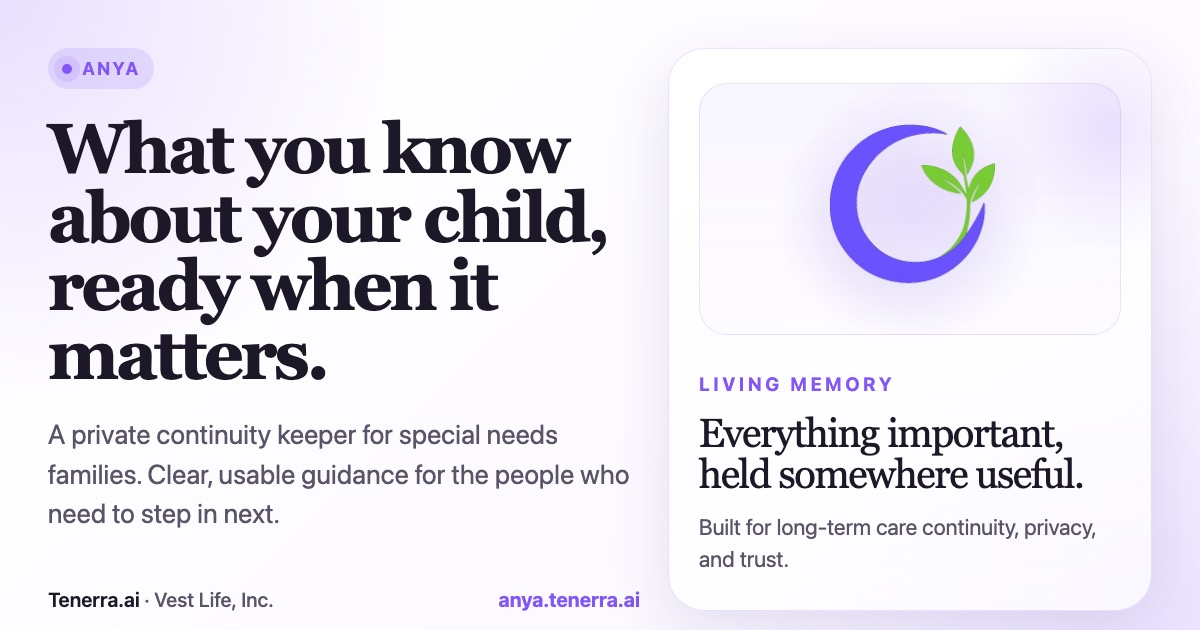
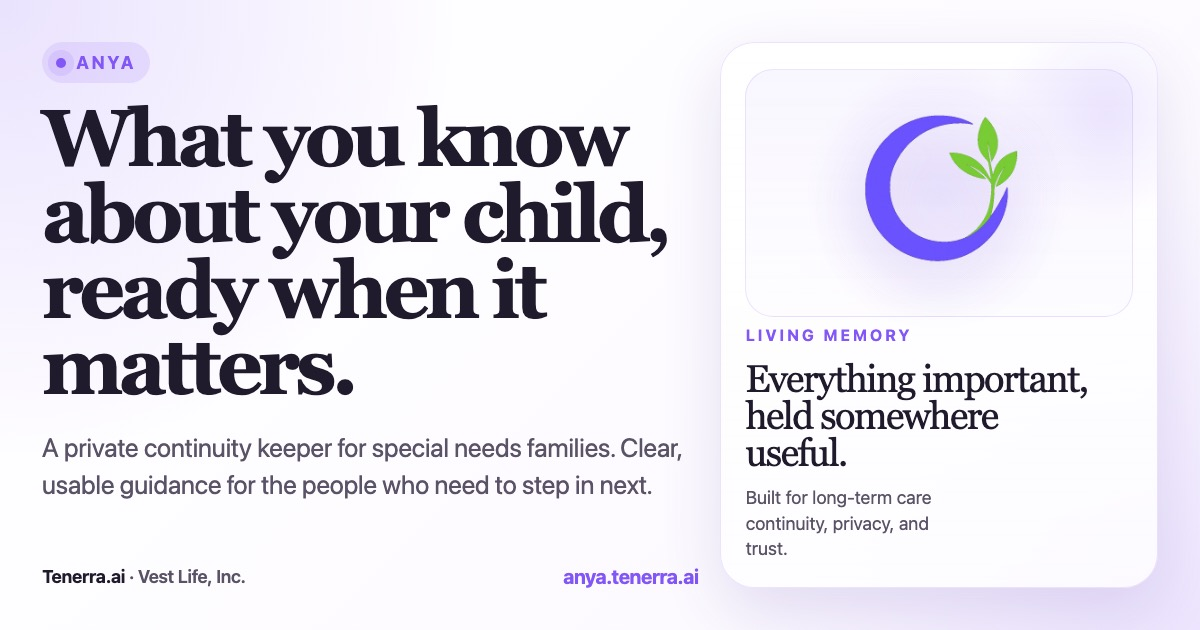
chore: refine open graph metadata and preview image

diff --git a/design/og-image-source.html b/design/og-image-source.html
@@ -1,0 +1,230 @@
+<!DOCTYPE html>
+<html lang="en">
+<head>
+  <meta charset="UTF-8">
+  <meta name="viewport" content="width=device-width, initial-scale=1.0">
+  <title>ANYA OG Image</title>
+  <style>
+    :root {
+      --bg: #fcfbff;
+      --panel: rgba(255, 255, 255, 0.92);
+      --panel-glow: rgba(130, 86, 247, 0.12);
+      --text: #201a2d;
+      --text-soft: #5a5367;
+      --accent: #8256f7;
+      --accent-soft: rgba(130, 86, 247, 0.12);
+      --border: rgba(130, 86, 247, 0.16);
+    }
+
+    * {
+      box-sizing: border-box;
+    }
+
+    html,
+    body {
+      margin: 0;
+      width: 1200px;
+      height: 630px;
+      overflow: hidden;
+      background:
+        radial-gradient(circle at top left, rgba(130, 86, 247, 0.17), transparent 34%),
+        radial-gradient(circle at bottom right, rgba(130, 86, 247, 0.12), transparent 36%),
+        linear-gradient(135deg, #ffffff 0%, #fbf8ff 100%);
+      color: var(--text);
+      font-family: "Inter", "Montserrat", -apple-system, BlinkMacSystemFont, "Segoe UI", sans-serif;
+    }
+
+    body {
+      position: relative;
+    }
+
+    .frame {
+      position: absolute;
+      inset: 0;
+      padding: 42px;
+      display: grid;
+      grid-template-columns: 1.35fr 0.9fr;
+      gap: 22px;
+    }
+
+    .copy {
+      display: flex;
+      flex-direction: column;
+      justify-content: space-between;
+      min-width: 0;
+    }
+
+    .eyebrow {
+      display: inline-flex;
+      align-items: center;
+      gap: 10px;
+      width: fit-content;
+      padding: 10px 14px;
+      border-radius: 999px;
+      background: var(--accent-soft);
+      color: var(--accent);
+      font-size: 18px;
+      font-weight: 700;
+      letter-spacing: 0.14em;
+      text-transform: uppercase;
+    }
+
+    .eyebrow::before {
+      content: "";
+      width: 10px;
+      height: 10px;
+      border-radius: 50%;
+      background: var(--accent);
+      box-shadow: 0 0 0 8px rgba(130, 86, 247, 0.12);
+    }
+
+    h1 {
+      margin: 18px 0 0;
+      font-family: "Georgia", "Times New Roman", serif;
+      font-size: 80px;
+      line-height: 0.95;
+      letter-spacing: -0.055em;
+      max-width: 720px;
+    }
+
+    .subhead {
+      margin-top: 24px;
+      max-width: 700px;
+      font-size: 26px;
+      line-height: 1.42;
+      color: var(--text-soft);
+      letter-spacing: -0.01em;
+    }
+
+    .footer {
+      display: flex;
+      align-items: center;
+      justify-content: space-between;
+      gap: 24px;
+      padding-top: 24px;
+    }
+
+    .brandline {
+      font-size: 18px;
+      font-weight: 700;
+      letter-spacing: -0.02em;
+      color: var(--text);
+    }
+
+    .brandline span {
+      color: var(--text-soft);
+      font-weight: 600;
+    }
+
+    .url {
+      font-size: 20px;
+      font-weight: 700;
+      color: var(--accent);
+      letter-spacing: -0.02em;
+    }
+
+    .panel {
+      position: relative;
+      border-radius: 34px;
+      border: 1px solid var(--border);
+      background: linear-gradient(180deg, rgba(255, 255, 255, 0.95), rgba(255, 255, 255, 0.8));
+      box-shadow: 0 22px 62px rgba(57, 27, 140, 0.12);
+      padding: 26px 24px;
+      overflow: hidden;
+      display: flex;
+      flex-direction: column;
+      justify-content: space-between;
+    }
+
+    .panel::before {
+      content: "";
+      position: absolute;
+      right: -60px;
+      top: -40px;
+      width: 220px;
+      height: 220px;
+      border-radius: 50%;
+      background: radial-gradient(circle, rgba(130, 86, 247, 0.12), transparent 70%);
+    }
+
+    .logo-wrap {
+      min-height: 248px;
+      border-radius: 28px;
+      display: flex;
+      align-items: center;
+      justify-content: center;
+      background:
+        radial-gradient(circle at center, rgba(130, 86, 247, 0.14), transparent 58%),
+        linear-gradient(180deg, rgba(130, 86, 247, 0.05), rgba(130, 86, 247, 0.01));
+      border: 1px solid rgba(130, 86, 247, 0.14);
+    }
+
+    .logo-wrap img {
+      width: 230px;
+      height: 230px;
+      object-fit: contain;
+      filter: drop-shadow(0 18px 26px rgba(83, 43, 177, 0.14));
+    }
+
+    .panel-copy {
+      position: relative;
+      z-index: 1;
+    }
+
+    .panel-title {
+      margin: 0;
+      font-size: 16px;
+      font-weight: 700;
+      letter-spacing: 0.18em;
+      text-transform: uppercase;
+      color: var(--accent);
+    }
+
+    .panel-headline {
+      margin: 16px 0 0;
+      font-family: "Georgia", "Times New Roman", serif;
+      font-size: 38px;
+      line-height: 0.98;
+      letter-spacing: -0.04em;
+      max-width: 15ch;
+    }
+
+    .panel-body {
+      margin: 14px 0 0;
+      font-size: 18px;
+      line-height: 1.4;
+      color: var(--text-soft);
+      max-width: 20ch;
+    }
+  </style>
+</head>
+<body>
+  <main class="frame">
+    <section class="copy">
+      <div>
+        <div class="eyebrow">ANYA</div>
+        <h1>What you know about your child, ready when it matters.</h1>
+        <p class="subhead">
+          A private continuity keeper for special needs families. Clear, usable guidance for the people who need to step in next.
+        </p>
+      </div>
+
+      <div class="footer">
+        <div class="brandline">Tenerra.ai <span>· Vest Life, Inc.</span></div>
+        <div class="url">anya.tenerra.ai</div>
+      </div>
+    </section>
+
+    <aside class="panel" aria-hidden="true">
+      <div class="logo-wrap">
+        <img src="./og-logo.png" alt="">
+      </div>
+      <div class="panel-copy">
+        <p class="panel-title">Living memory</p>
+        <p class="panel-headline">Everything important, held somewhere useful.</p>
+        <p class="panel-body">Built for long-term care continuity, privacy, and trust.</p>
+      </div>
+    </aside>
+  </main>
+</body>
+</html>

diff --git a/index.html b/index.html
@@ -20,6 +20,8 @@
   <meta property="og:type" content="website">
   <meta property="og:url" content="https://anya.tenerra.ai/">
   <meta property="og:image" content="https://anya.tenerra.ai/assets/images/og-image.jpg">
+  <meta property="og:image:secure_url" content="https://anya.tenerra.ai/assets/images/og-image.jpg">
+  <meta property="og:image:type" content="image/jpeg">
   <meta property="og:image:width" content="1200">
   <meta property="og:image:height" content="630">
   <meta property="og:image:alt" content="ANYA — What you know about your child, ready when it matters">
@@ -30,6 +32,7 @@
   <meta name="twitter:title" content="ANYA — What You Know, Ready When It Matters">
   <meta name="twitter:description" content="Everything you know about your child—clear, usable, and ready for someone else when it matters.">
   <meta name="twitter:image" content="https://anya.tenerra.ai/assets/images/og-image.jpg">
+  <meta name="twitter:image:alt" content="ANYA — What you know about your child, ready when it matters">
 
   <link rel="preconnect" href="https://fonts.googleapis.com">
   <link rel="preconnect" href="https://fonts.gstatic.com" crossorigin>
